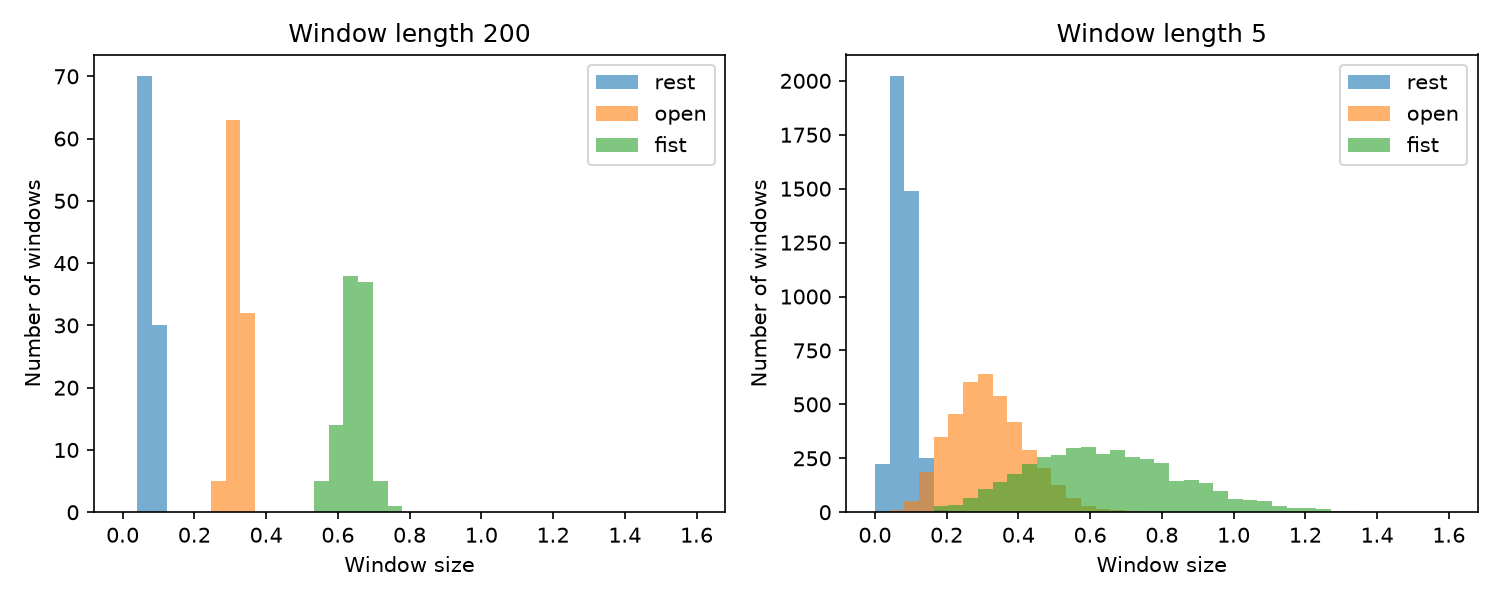
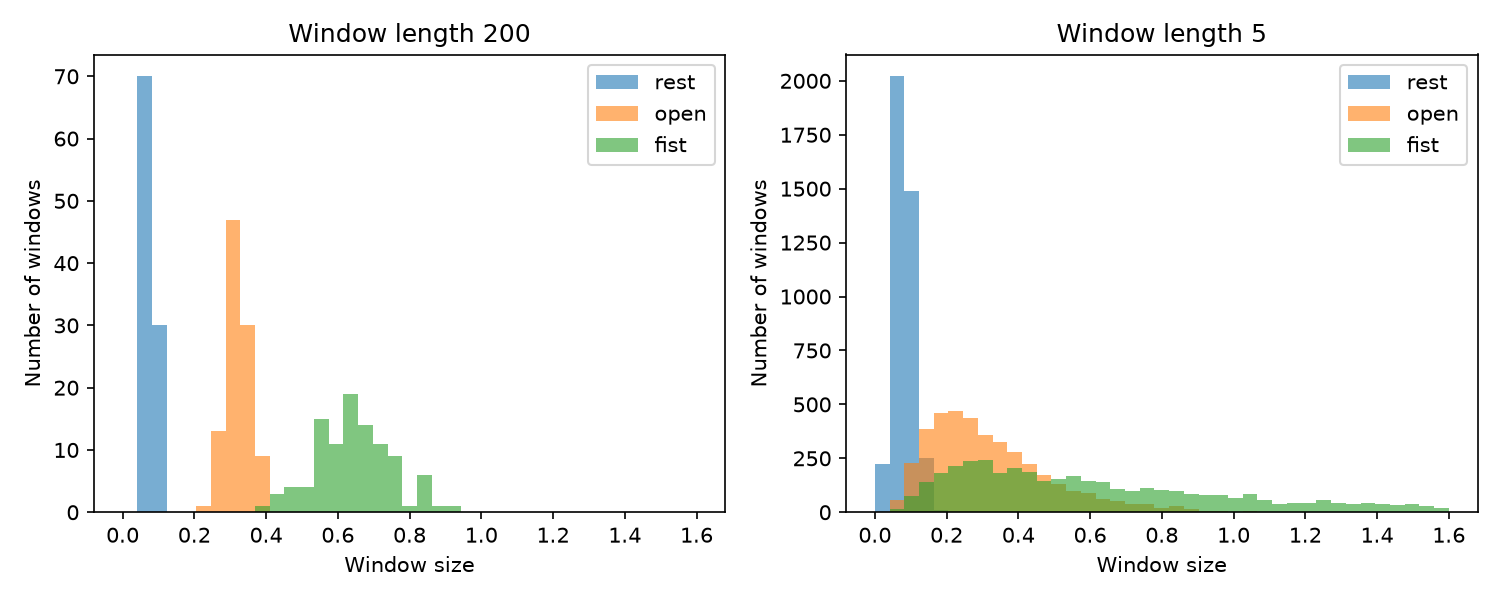
Update README for harder signals

diff --git a/README.md b/README.md
@@ -5,10 +5,11 @@ A learning simulation that guesses a hand gesture (rest, open or fist) from a fa
 ## How it works
 
 1. Make a fake muscle signal for each gesture.
-2. Cut the signal into short windows and measure the average size of each window.
-3. Learn the typical window size for each gesture.
-4. Guess a new window by picking the gesture with the closest typical size.
-5. Score the guesses on new signals and print a results table.
+2. Give each gesture its own loudness and its own smoothness.
+3. Cut the signal into short windows and measure two things for each window: its average size and its roughness.
+4. Learn the typical size and roughness of each gesture.
+5. Guess a new window by picking the gesture with the closest typical pair.
+6. Score the guesses on new signals and print a results table.
 
 ![Window sizes for a long and a short window](export/window_comparison.png)
 
@@ -22,16 +23,29 @@ cd prosthetic-hand-simulator
 python3 -m venv venv
 source venv/bin/activate
 pip install -r requirements.txt
-python main.py        # train, test and print results
-python plot.py        # save the comparison chart
-python -m pytest      # run the tests
+python main.py          # train, test and print results
+python plot.py          # save the comparison chart
+python noise_sweep.py   # accuracy as background noise rises
+python -m pytest        # run the tests
 ```
+## Harder signals
+
+Real muscle signals have background noise. `noise_floor` adds the same random noise to every gesture. As it rises, the quiet gestures drown in it.
+
+| Noise floor | Accuracy |
+| --- | --- |
+| 0.0 | 99% |
+| 0.3 | 99% |
+| 0.6 | 93% |
+| 1.0 | 78% |
+
+I also tried adding a second feature, roughness, hoping it would help. It did not. Size and roughness both come from the same noisy signal, so the noise hides both. Size alone scored 77%, roughness alone 72% and both together 78% at a noise floor of 1.0. A second measurement of the same noise cannot recover what the noise hides.
 
 ## Limitations
 
 - All data is fake. It is random noise, not real muscle signal, so real signals would be messier.
-- The 100% score is easy to get. The three gestures are far apart, so the task is too simple.
-- It uses one feature only: the average size of a window. Two gestures with the same loudness would look the same.
+- With no background noise the three gestures are far apart, so the task is easy.
+- It uses two features, size and roughness, but both come from the same signal, so noise hurts both.
 - A short window is quick but noisy. A long window is steady but slow to react.
 - It is a learning simulation, not a medical device.
 - Tested on Linux Mint only.
